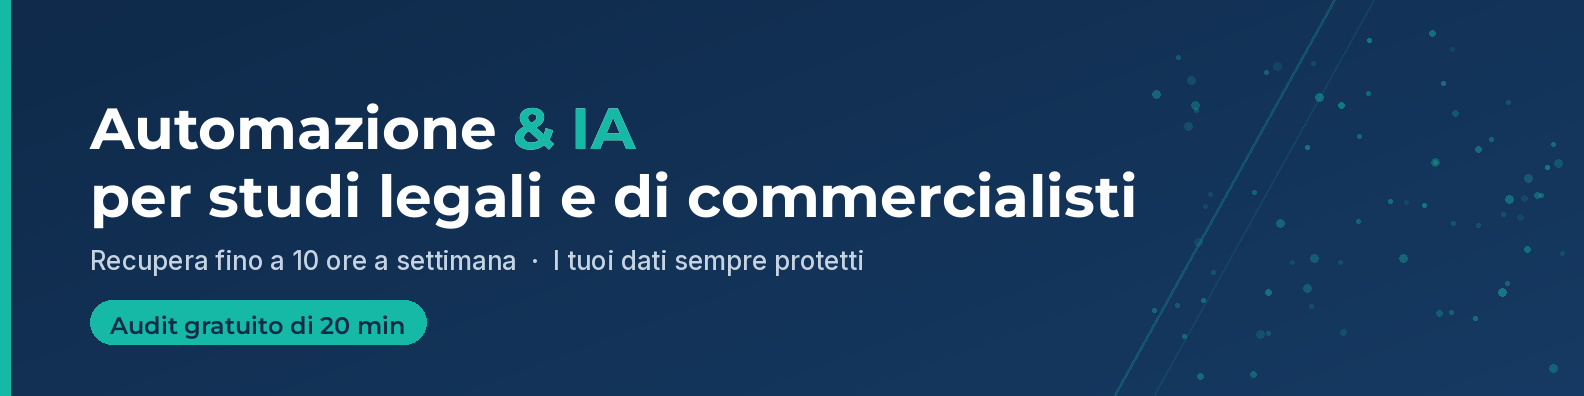
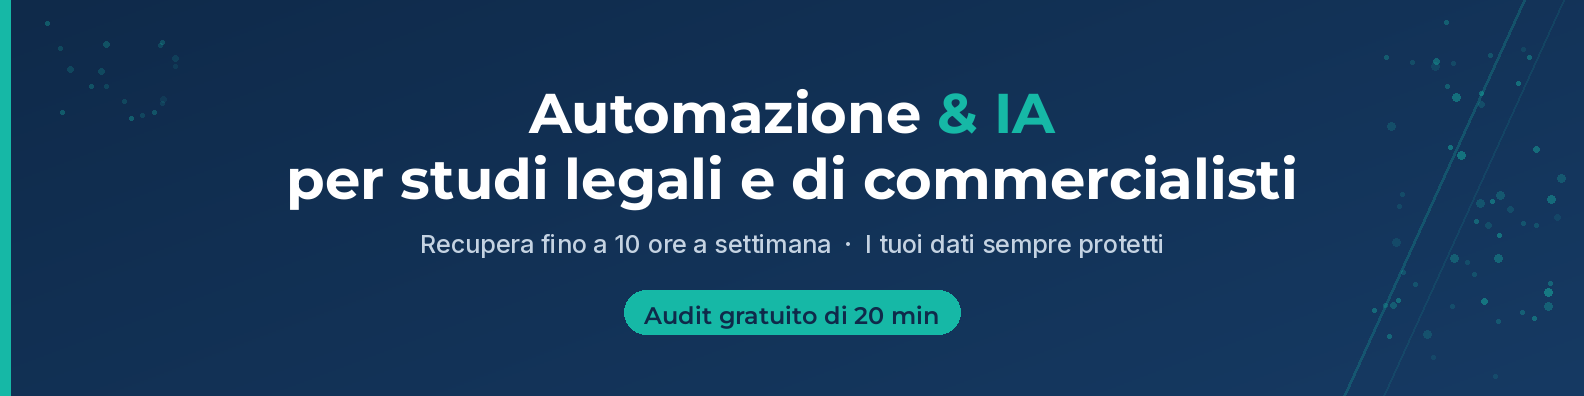
Bannière LinkedIn : texte centré pour rester visible avec la photo de profil

diff --git a/gen_banner.py b/gen_banner.py
@@ -38,49 +38,63 @@ for y in range(H):
 base = grad
 draw = ImageDraw.Draw(base, "RGBA")
 
-# --- decorative teal dots cluster (right side) ---
+# --- decorative teal dots (far-right + top-left corners, clear of centered text) ---
 import random
 random.seed(7)
-for _ in range(70):
-    cx = random.randint(W - 430, W - 20)
+for _ in range(55):
+    cx = random.randint(W - 210, W - 20)
     cy = random.randint(20, H - 20)
     rad = random.choice([2, 2, 3, 4])
     alpha = random.randint(30, 130)
     draw.ellipse([cx - rad, cy - rad, cx + rad, cy + rad], fill=(22, 184, 166, alpha))
+for _ in range(18):
+    cx = random.randint(40, 200)
+    cy = random.randint(20, 120)
+    rad = random.choice([2, 2, 3])
+    alpha = random.randint(25, 90)
+    draw.ellipse([cx - rad, cy - rad, cx + rad, cy + rad], fill=(22, 184, 166, alpha))
 
-# --- accent diagonal line ---
-draw.line([(W - 470, H), (W - 250, 0)], fill=(22, 184, 166, 60), width=3)
-draw.line([(W - 430, H), (W - 210, 0)], fill=(22, 184, 166, 30), width=2)
+# --- accent diagonal line (far right) ---
+draw.line([(W - 240, H), (W - 60, 0)], fill=(22, 184, 166, 60), width=3)
+draw.line([(W - 200, H), (W - 20, 0)], fill=(22, 184, 166, 30), width=2)
 
 # left accent bar
 draw.rectangle([0, 0, 10, H], fill=TEAL)
 
-# --- text block (left-aligned, vertically centered, clear of avatar) ---
-f_h1 = font(MONT, 58, "Bold")
-f_h2 = font(MONT, 58, "Bold")
-f_sub = font(INTER, 26, "Medium")
+# --- text block (CENTERED, clear of profile photo on desktop) ---
+f_h1 = font(MONT, 56, "Bold")
+f_h2 = font(MONT, 56, "Bold")
+f_sub = font(INTER, 25, "Medium")
 f_badge = font(MONT, 24, "SemiBold")
 
-x0 = 90
-line1 = "Automazione & IA"
+cx = W // 2
+line1a = "Automazione "
+line1b = "& IA"
 line2 = "per studi legali e di commercialisti"
+subline = "Recupera fino a 10 ore a settimana  ·  I tuoi dati sempre protetti"
 
-draw.text((x0, 92), line1, font=f_h1, fill=WHITE)
-# accent on the "& IA" handled simply: redraw "& IA" portion in teal
-w_auto = draw.textlength("Automazione ", font=f_h1)
-draw.text((x0 + w_auto, 92), "& IA", font=f_h1, fill=TEAL)
+# line 1 (centered, with teal "& IA")
+w1a = draw.textlength(line1a, font=f_h1)
+w1b = draw.textlength(line1b, font=f_h1)
+x1 = cx - (w1a + w1b) / 2
+draw.text((x1, 78), line1a, font=f_h1, fill=WHITE)
+draw.text((x1 + w1a, 78), line1b, font=f_h1, fill=TEAL)
 
-draw.text((x0, 160), line2, font=f_h2, fill=WHITE)
+# line 2 (centered)
+w2 = draw.textlength(line2, font=f_h2)
+draw.text((cx - w2 / 2, 144), line2, font=f_h2, fill=WHITE)
 
-draw.text((x0, 244), "Recupera fino a 10 ore a settimana  ·  I tuoi dati sempre protetti",
-          font=f_sub, fill=GREY)
+# subline (centered)
+ws = draw.textlength(subline, font=f_sub)
+draw.text((cx - ws / 2, 228), subline, font=f_sub, fill=GREY)
 
-# --- badge pill ---
+# --- badge pill (centered) ---
 badge_txt = "Audit gratuito di 20 min"
 pad_x, pad_y = 20, 12
 tw = draw.textlength(badge_txt, font=f_badge)
-bx, by = x0, 300
-draw.rounded_rectangle([bx, by, bx + tw + pad_x * 2, by + 44], radius=22, fill=TEAL)
+bw = tw + pad_x * 2
+bx, by = cx - bw / 2, 290
+draw.rounded_rectangle([bx, by, bx + bw, by + 44], radius=22, fill=TEAL)
 draw.text((bx + pad_x, by + pad_y - 2), badge_txt, font=f_badge, fill=NAVY)
 
 out = "agence-ia/marque/linkedin-banner.png"